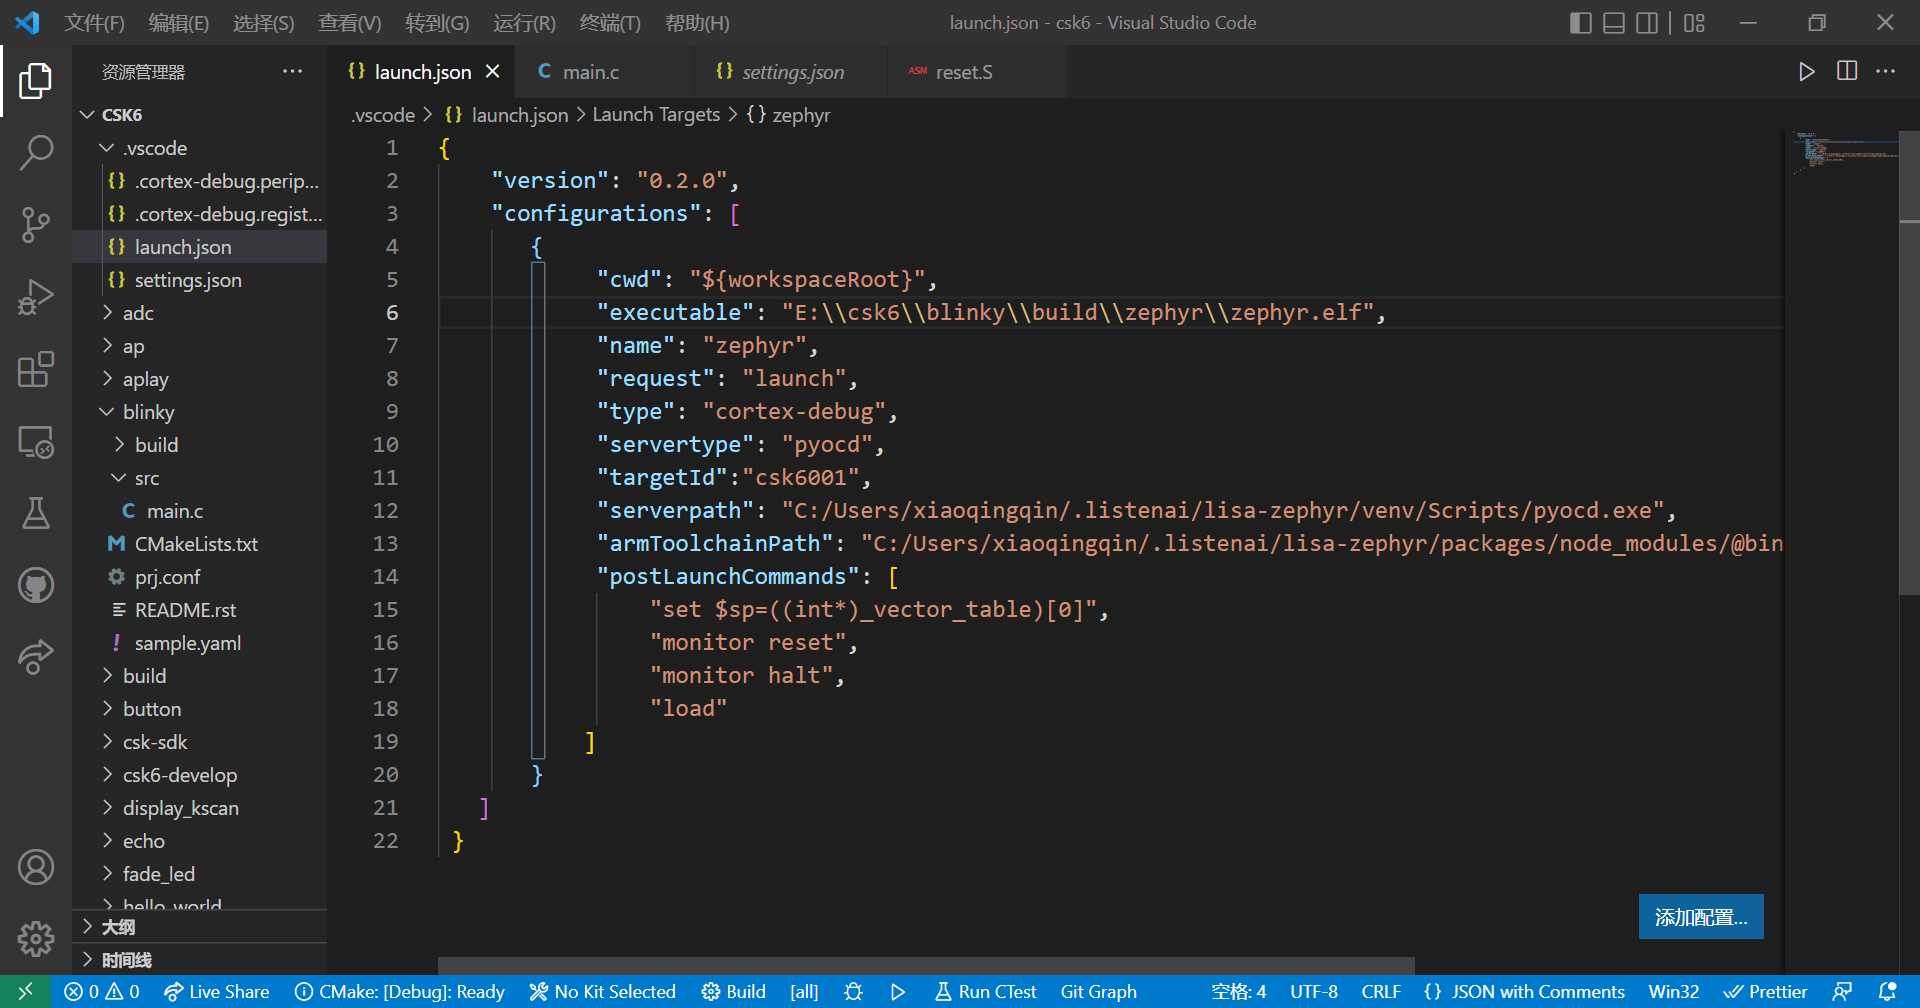
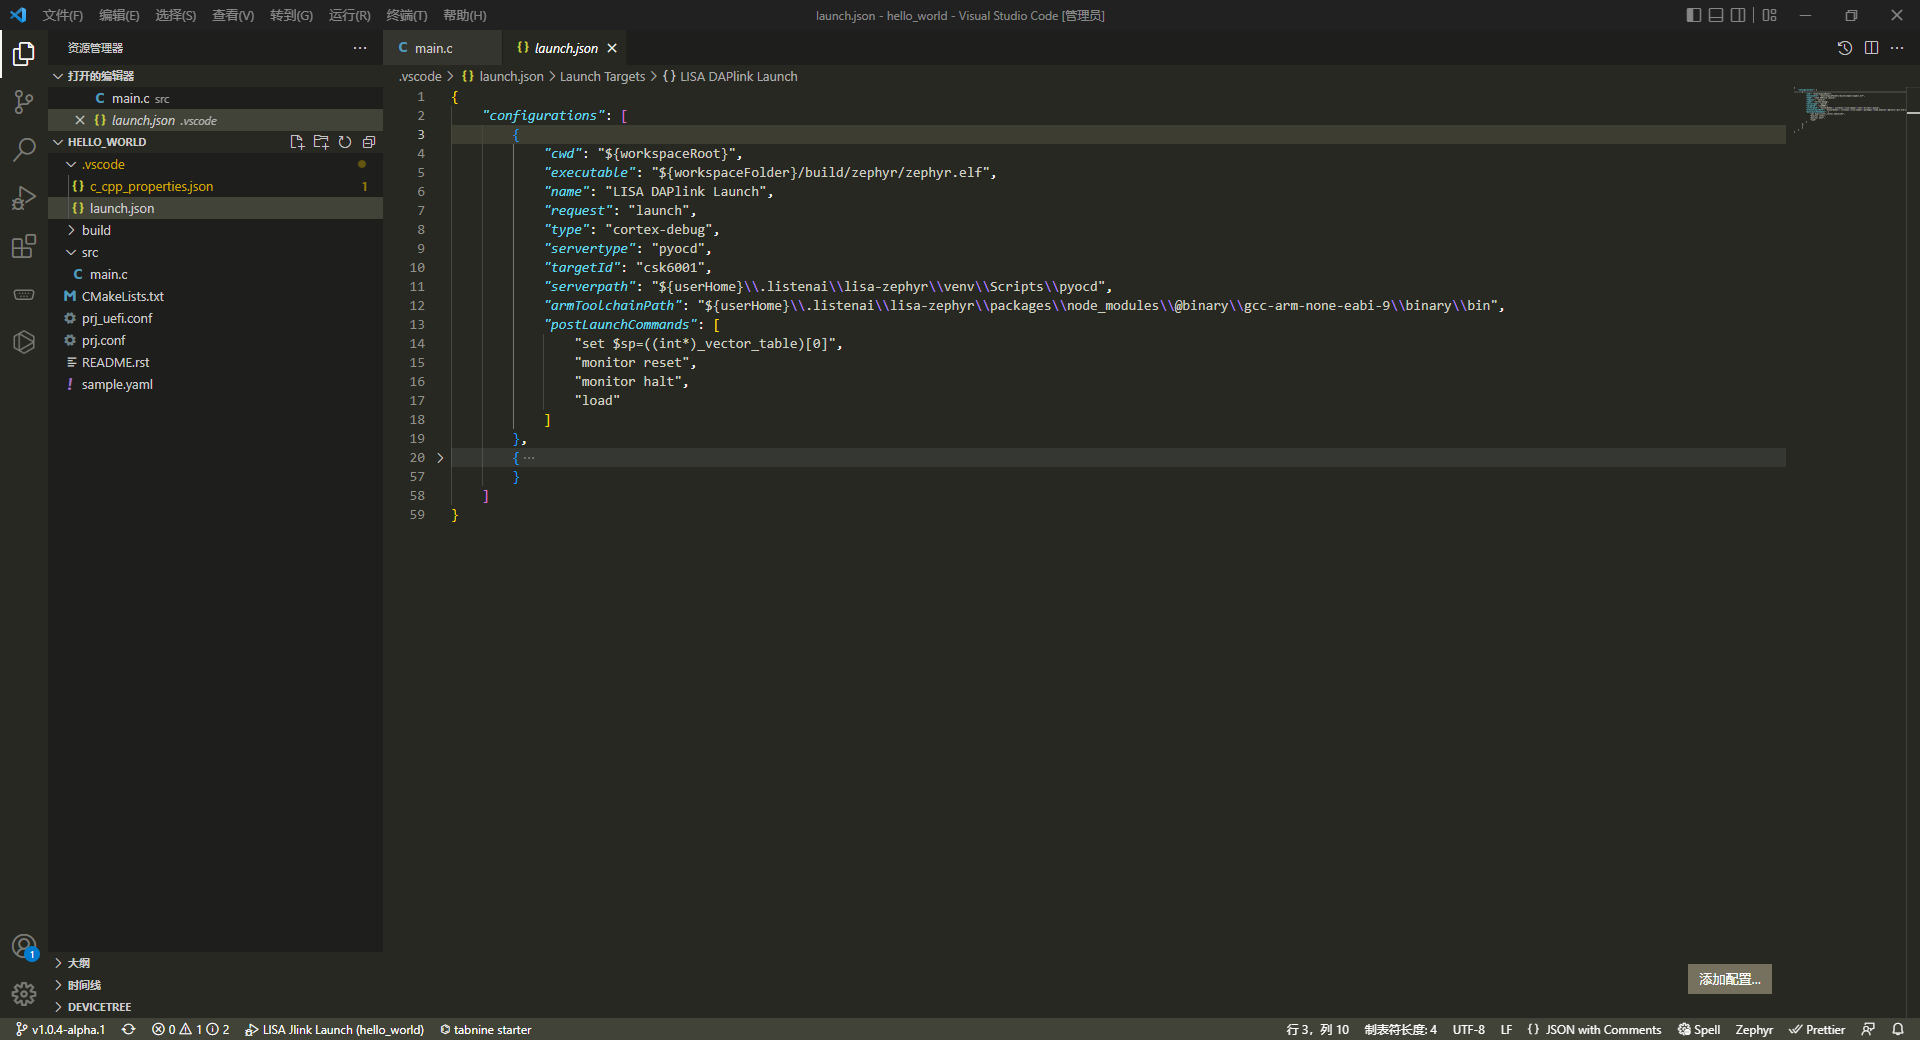
修改调试相关文档；增加vscode开发插件推荐文档

diff --git a/gdbdebug/gdbdebug-jlink.md b/gdbdebug/gdbdebug-jlink.md
@@ -1,9 +1,9 @@
 # 基于 J-Link 的 GDB 调试
 
 ## 概述
-Zephyr 提供了多种 debug 调试方式，支持 GDB 调试，本章节主要介绍如何基于 VS Code 和 J-Link 仿真器实现应用调试。通过本章节学习，开发者可以了解到：
+Zephyr 提供了多种 debug 调试方式，支持 GDB 调试，本章节主要介绍如何基于 VSCode 和 J-Link 仿真器实现应用调试。通过本章节学习，开发者可以了解到：
 - PC 端如何对应用项目进行调试
-- 基于 VS Code 和 J-Link 的调试方法
+- 基于 VSCode 和 J-Link 的调试方法
 
 :::note
 Windows 系统和 Ubuntu 系统下配置的基本一致。
@@ -12,50 +12,47 @@ Windows 系统和 Ubuntu 系统下配置的基本一致。
 ## 准备工作
 - CSK6-NanoKit 开发板。
 - `J-Link` 仿真器，并成功安装驱动，[J-Link驱动下载](https://iflyos-external.oss-cn-shanghai.aliyuncs.com/public/lsopen/zephyr/%E5%B7%A5%E5%85%B7/JLink_Windows_V630d.exe)。
-- PC 端安装 `VS Code`，根据系统类型选择对应的 Windows 或 Linux 版本，[Visual Studio Code 官网下载入口](https://code.visualstudio.com/Download)。
+- PC 端安装 `VSCode`，根据系统类型选择对应的 Windows 或 Linux 版本，[Visual Studio Code 官网下载入口](https://code.visualstudio.com/Download)。
 - `csk6002_9s_nano` 的日志串口 `A03 TX A02 RX` 接串口板连接电脑，在电脑端使用串口调试助手查看日志，波特率为 115200。
 
 将 CSK6-NanoKit 开发板和 J-Link 仿真器 SWD 接口按以下接线图完整连接：
 ![](./files/connect.png)
 
 ## 调试过程
-### VS Code 调试环境搭建
-#### VS Code 安装 `Venus's Cortex-Debug` 调试插件
-在 VS Code 应用商店中搜索 `Venus's Cortex-Debug` 扩展插件，并完成安装，如下图所示：
+### VSCode 调试环境搭建
+#### VSCode 安装 `Venus's Cortex-Debug` 调试插件
+在 VSCode 应用商店中搜索 `Venus's Cortex-Debug` 扩展插件，并完成安装，如下图所示：
 
 ![](./files/venus-debug.png)
 
-#### 创建 `hello_world` 项目并完成 debug 环境配置
+#### 基于已有项目的完成debug 环境配置
 
-**步骤一：** 在 Windows 下新建一个文件夹，如 `csk6-develop`，并将其导入 VS Code。
+**步骤一：** 在已有项目目录下使用 `lisa zep build -b csk6002_9s_nano` 命令完成编译。
 
-**步骤二：** 在 `csk6-develop` 目录下新建 .vscode 目录，将 [launch.json](https://iflyos-external.oss-cn-shanghai.aliyuncs.com/public/lsopen/zephyr/%E5%8A%9F%E8%83%BD%E6%96%87%E4%BB%B6/launch.json) 文件放置到该目录下。
+**步骤二：** 在已有项目目录下使用 `lisa zep ide` 生成debug配置文件lauch.json。
 
-**步骤三：** 在 `csk6-develop` 文件夹下使用 `lisa zep create` 命令创建 `hello_world` 项目，并使用 `lisa zep build -b csk6002_9s_nano` 命令完成编译。
+**步骤三：** 关闭所有已经打开的VSCode窗口，重新打开一个新的VSCode窗口并且导入已有项目目录。可以查看到该目录下已经存在.vscode > lauch.json文件。
 
-**步骤四：** 修改 `luncher.json` 文件 `executable`、`serverpath`、 `armToolchainPath` 三项配置，具体如下：
+#### 创建新项目并完成 debug 环境配置
 
-`executable` 修改为需要 debug 应用项目的 zephyr.elf 文件路径，本示例为`hello_world` 项目的 zephyr.elf 路径：
-```c 
-# 需要 debug 应用的 zephyr.elf 文件路径，本示例为 `hello_world` 项目的 zephyr.elf 路径
- "executable": "E:\\csk6-develop\\hello_world\\build\\zephyr\\zephyr.elf",
-```
+**步骤一：** 选择一个目录用于存放我们即将创建的项目，在该目录下使用 `lisa zep create` 命令创建 `hello_world` 项目，并使用 `lisa zep build -b csk6002_9s_nano` 命令完成编译。
 
-`serverpath` 需要修改为 lisa 安装时带入的 `JLinkGDBServerCL.exe` 可执行文件路径：
-```c 
-"serverpath": "C:/Users/xxxx/.listenai/lisa-zephyr/packages/node_modules/@binary/jlink-venus/binary/JLinkGDBServerCL.exe",
-```
+**步骤二：** 在VSCode中打开刚刚创建的hello_world项目，可以查看到该目录下已经存在.vscode > lauch.json文件。
 
-`armToolchainPath` 修改为 lisa 安装时带入编译链的路径：
-```c 
-# 编译链路径，lisa 安装时带入，需要修改为对应的路径
-"armToolchainPath": "C:/Users/xxxx/.listenai/lisa-zephyr/packages/node_modules/@binary/gcc-arm-none-eabi-9/binary/bin",
-``` 
+#### 配置文件变量说明
+
+`executable`: debug 应用项目的 zephyr.elf 文件路径，本示例为`hello_world` 项目的 zephyr.elf 路径。
+
+
+`serverpath`: lisa 安装时带入的 `JLinkGDBServerCL` 可执行文件路径。
+
+
+`armToolchainPath`: lisa 安装时带入编译链的路径。
 
 ![](./files/venus-debug_config.png)
 
 :::tip
-.vscode 下放置的是各种配置文件，如：task.json 文件、lauch.json 文件等，.vscode 文件夹通常在点击运行->启动调试后由系统生成，本示例直接新增了该目录。
+.vscode 下放置的是各种配置文件，如：task.json 文件、lauch.json 文件等，如遇配置文件不生效的情况，可关闭所有vscode窗口之后重新打开新的窗口重试。
 :::
 
 ### 对 `hello_world` 项目进行 debug 调试
@@ -94,14 +91,15 @@ lisa zep flash --runner jlink
 #### 步骤三：断点调试
 ##### 增加断点
 
-点击 VC Code 运行和调试按钮进入调试模式，在 main 函数的第12行和第17行左侧单击鼠标左键增加两个断点，如下图示：
-![](./files/venus-debug_rundebug.png)
+在 main 函数的第 12 行和第 18 行左侧单击鼠标左键增加两个断点，点击 VSCode 侧边栏的运行和调试按钮进入调试模式并选择LISA Jlink Launch调试任务，如下图示：
+
+![](./files/venus-debug_rundebug_Jlink.png)
 
 
 ##### 开始调试  
 增加断点后点击运行调试按钮 (F5) 开始运行，变量值及监控变量可以在运行调试过程中显示，如下图示：
 
-![](./files/venus-debug_rundebug02.png)
+![](./files/venus-debug_rundebug02_Jlink.png)
 
 从上图可看到，当开始 F5 运行调试后，程序会停在第一个断点，此时 F5 继续执行后程序输出 `Hello world！` 并调到第二个断点等待继续，此后每按一次 F5 继续执行则 while 循环中 count 自增并循环输出日志等待继续执行，同时在侧边栏可以看到 count 在调试过程中值的变化。
 

diff --git a/gdbdebug/gdbdebug-daplink.md b/gdbdebug/gdbdebug-daplink.md
@@ -1,9 +1,9 @@
 # 基于 DAPLink 的 GDB 调试
 
 ## 概述
-Zephyr 提供了多种 debug 调试方式，支持 gdb 调试，本章节主要介绍如何基于 VS Code 和 CSK6-NanoKit 开发板板载调试器芯片 DAPLink 实现应用项目的调试。通过本章节学习，开发者可以了解到：
+Zephyr 提供了多种 debug 调试方式，支持 gdb 调试，本章节主要介绍如何基于 VSCode 和 CSK6-NanoKit 开发板板载调试器芯片 DAPLink 实现应用项目的调试。通过本章节学习，开发者可以了解到：
 - PC端如何对应用项目进行调试
-- 基于 VS Code 和 DAPLink 的调试方法
+- 基于 VSCode 和 DAPLink 的调试方法
 
 :::note
 Windows 系统和 Ubuntu 系统下配置的基本一致。
@@ -11,46 +11,45 @@ Windows 系统和 Ubuntu 系统下配置的基本一致。
 
 ## 准备工作
 - CSK6-NanoKit 开发板，DAPLink 调试 USB 口接 PC 端。
-- PC 端安装 `VS Code`，根据系统类型选择对应的 Windows 或 Linux 版本，[Visual Studio Code 官网下载入口](https://code.visualstudio.com/Download)。
+- PC 端安装 `VSCode`，根据系统类型选择对应的 Windows 或 Linux 版本，[Visual Studio Code 官网下载入口](https://code.visualstudio.com/Download)。
 - `csk6002_9s_nano` 的日志串口接 NanoKit 板子的 `DAPLink` 的 `USB TYPE C` 口即可在电脑端上使用串口调试助手查看日志。如果不是使用 NanoKit 的话，可以通过 `A03 TX A02 RX` 接串口板连接电脑来查看日志，波特率为 115200。
 
 ## 调试过程
-### VS Code 调试环境搭建
-#### VS Code 安装 `Venus's Cortex-Debug` 调试插件
-在 VS Code 应用商店中搜索 `Venus's Cortex-Debug` 扩展插件，并完成安装，如下图所示：
+### VSCode 调试环境搭建
+#### VSCode 安装 `Venus's Cortex-Debug` 调试插件
+在 VSCode 应用商店中搜索 `Venus's Cortex-Debug` 扩展插件，并完成安装，如下图所示：
 
 ![](./files/venus-debug.png)
 
-#### 创建 `hello_world` 项目并完成 debug 环境配置
+#### 基于已有项目的完成debug 环境配置
 
-**步骤一：** 在 Windows 下新建一个文件夹，如 `csk6-develop`，并将其导入 VS Code。
+**步骤一：** 在已有项目目录下使用 `lisa zep build -b csk6002_9s_nano` 命令完成编译。
 
-**步骤二：** 在 `csk6-develop` 目录下新建 .vscode 目录，将 [launch.json](https://iflyos-external.oss-cn-shanghai.aliyuncs.com/public/lsopen/zephyr/%E5%8A%9F%E8%83%BD%E6%96%87%E4%BB%B6/jlink-debug/launch.json) 文件放置到该目录下。
+**步骤二：** 在已有项目目录下使用 `lisa zep ide` 生成debug配置文件lauch.json。
 
-**步骤三：** 在 `csk6-develop` 文件夹下使用 `lisa zep create` 命令创建 `hello_world` 项目，并使用 `lisa zep build -b csk6002_9s_nano` 命令完成编译。
+**步骤三：** 关闭所有已经打开的VSCode窗口，重新打开一个新的VSCode窗口并且导入已有项目目录。可以查看到该目录下已经存在.vscode > lauch.json文件。
 
-**步骤四：** 修改 `luncher.json` 文件 `executable`、`serverpath`、 `armToolchainPath` 三项配置，具体如下：
+#### 创建新项目并完成 debug 环境配置
 
-`executable` 修改为需要 debug 应用项目的 zephyr.elf 文件路径，本示例为`hello_world` 项目的 zephyr.elf 路径：
-```c 
-# 需要 debug 应用的 zephyr.elf 文件路径，本示例为 `hello_world` 项目的 zephyr.elf 路径 
- "executable": "E:\\csk6-develop\\hello_world\\build\\zephyr\\zephyr.elf",
-```
+**步骤一：** 选择一个目录用于存放我们即将创建的项目，在该目录下使用 `lisa zep create` 命令创建 `hello_world` 项目，并使用 `lisa zep build -b csk6002_9s_nano` 命令完成编译。
 
-`serverpath` 修改为 lisa 安装时带入的 pyocd 执行文件路径：
-```c 
-"serverpath": "C:/Users/xiaoqingqin/.listenai/lisa-zephyr/venv/Scripts/pyocd.exe",
-```
+**步骤二：** 在VSCode中打开刚刚创建的hello_world项目，可以查看到该目录下已经存在.vscode > lauch.json文件。
 
-`armToolchainPath` 修改为 lisa 安装时带入编译链的路径：
-```c
-"armToolchainPath": "C:/Users/xxxx/.listenai/lisa-zephyr/packages/node_modules/@binary/gcc-arm-none-eabi-9/binary/bin",
-``` 
+#### 配置文件变量说明
+
+`executable`: debug 应用项目的 zephyr.elf 文件路径，本示例为`hello_world` 项目的 zephyr.elf 路径。
+
+
+`serverpath`: lisa 安装时带入的 pyocd 执行文件路径。
+
+
+`armToolchainPath`: lisa 安装时带入编译链的路径。
+
 
 ![](./files/venus-debug_config_daplink.png)
 
 :::tip
-.vscode 下放置的是各种配置文件，如：task.json 文件、lauch.json 文件等，.vscode 文件夹通常在点击运行->启动调试后由系统生成，本示例直接新增了该目录。
+.vscode 下放置的是各种配置文件，如：task.json 文件、lauch.json 文件等，如遇配置文件不生效的情况，可关闭所有vscode窗口之后重新打开新的窗口重试。
 :::
 
 ### 对 `hello_world` 项目进行 debug 调试
@@ -89,7 +88,7 @@ lisa zep flash --runner pyocd
 #### 步骤三：断点调试
 ##### 增加断点
 
-点击 VC Code 运行和调试按钮进入调试模式，在 main 函数的第 12 行和第 17 行左侧单击鼠标左键增加两个断点，如下图示：
+在 main 函数的第 12 行和第 18 行左侧单击鼠标左键增加两个断点，点击 VSCode 侧边栏的运行和调试按钮进入调试模式并选择LISA DAPlink Launch调试任务，如下图示：
 ![](./files/venus-debug_rundebug.png)
 
 

diff --git a/application/getting_start.md b/application/getting_start.md
@@ -1,6 +1,3 @@
-import Tabs from '@theme/Tabs';
-import TabItem from '@theme/TabItem';
-
 # 快速开始
 
 学习本文后，你将可以：
@@ -12,6 +9,9 @@ import TabItem from '@theme/TabItem';
 ## 操作系统要求
 
 选择你正在使用的操作系统。
+
+import Tabs from '@theme/Tabs';
+import TabItem from '@theme/TabItem';
 
 <div style={{
     border: 'solid 1px #80808080',
@@ -112,8 +112,9 @@ xcode-select --install
     groupId="operating-systems"
     defaultValue="windows"
     values={[
+        {label: 'Ubuntu', value: 'ubuntu'},
         {label: 'Windows', value: 'windows'},
-        {label: 'macOS、Ubuntu', value: 'unix'}
+        {label: 'macOS', value: 'mac'}
     ]}
 >
   <TabItem value="windows">
@@ -123,7 +124,7 @@ xcode-select --install
 > **CSK6一键安装包** 是面向 Windows 操作系统的 CSK6 集成安装包，包含 CSK6 集成开发环境、CSK SDK 等，方便开发者能快速进行 CSK6 的应用开发。
 
   </TabItem>
-  <TabItem value="unix">
+  <TabItem value="mac">
 
 在 **用户权限** 下执行：
 
@@ -152,12 +153,65 @@ wget -qO- https://cdn.iflyos.cn/public/cskTools/lisa-zephyr-install.sh | bash
 > 该命令会在 `~/.listenai` 目录下，安装 CSK6 的集成开发环境以及 CSK SDK 的拉取，执行完毕后开发者能快速进行 CSK6 的应用开发。
 
   </TabItem>
+  <TabItem value="ubuntu">
+
+对于Ubuntu平台的开发者，你可以选用以下方式之一进行搭建：
+
+__1、通过脚本在线安装__
+
+在 **用户权限** 下执行：
+
+<Tabs
+    defaultValue="curl"
+    values={[
+        {label: '使用 curl', value: 'curl'},
+        {label: '使用 wget', value: 'wget'}
+    ]}
+>
+
+<TabItem value="curl">
+
+```bash
+curl -o- https://cdn.iflyos.cn/public/cskTools/lisa-zephyr-install.sh | bash
+```
+</TabItem>
+<TabItem value="wget">
+
+```bash
+wget -qO- https://cdn.iflyos.cn/public/cskTools/lisa-zephyr-install.sh | bash
+```
+</TabItem>
+</Tabs>
+
+> 该命令会在 `~/.listenai` 目录下，安装 CSK6 的集成开发环境以及 CSK SDK 的拉取，执行完毕后开发者能快速进行 CSK6 的应用开发。
+
+__2、通过snap离线安装__
+
+- 下载[Ubuntu 18.04 snap离线包](https://cdn.iflyos.cn/public/lisa-binary/lisa_2.4.2.tgz)：
+
+- 解压后执行：
+
+```bash
+./install.sh
+```
+
+或执行：
+
+```bash
+snap install lisa_2.4.2_amd64.snap
+```
+
+  </TabItem>
 </Tabs>
 </div>
 
 ## 编译 Hello world 示例
 
 选择一个目录用于存放我们即将创建的项目，在这个目录下执行以下命令
+
+:::warning 警告
+  不支持一个带有空格的路径中构建 Zephyr 或创建应用。因此形如 `C:\Users\YourName\app` 的路径可用，但 `C:\Users\Your Name\app` 则不可用。
+:::
 
 ```bash
 lisa zep create

diff --git a/tool/lisa_plugin_zephyr/release_note.md b/tool/lisa_plugin_zephyr/release_note.md
@@ -4,8 +4,8 @@
 
 #### New features:
 
-* `lisa zep sdk` : 新增 sdk 管理命令，交互式对 sdk 进行操作指引。详情查看 [对应章节](sdk_command) 。
-* `lisa zep ide` : 新增 ide 操作指引命令，针对 ide 对应插件的插件配置自动生成。详情查看 [对应章节](sdk_command) 。
+* `lisa zep sdk` : 新增 sdk 管理命令，交互式对 sdk 进行操作指引。详情查看 [对应章节](../lisa_plugin_zephyr/basic#csk-sdk-操作) 。
+* `lisa zep ide` : 新增 ide 操作指引命令，针对 ide 对应插件的插件配置自动生成。详情查看 [对应章节](../lisa_plugin_zephyr/build_flash_debug#csk6) 。
 * `lisa zep fs` : 新增文件系统操作指引命令。
 
 ## v1.6.1 (latest)

diff --git a/tool/lisa_plugin_zephyr/install.md b/tool/lisa_plugin_zephyr/install.md
@@ -1,7 +1,5 @@
 # 安装
 
-## 安装
-
 :::info
 在开始开发环境的搭建之前，请先确保本机已经安装了 **GIT** 工具。
 
@@ -62,6 +60,20 @@ wget -qO- https://cdn.iflyos.cn/public/cskTools/lisa-zephyr-install.sh | bash
 - [基础设置](../lisa_plugin_zephyr/basic.md)
 
 - [命令详解](../lisa_plugin_zephyr/command_detail.md)
+
+## 更新
+
+当你的本机已经存在`lisa zephyr`命令行工具，并想更新到较新的版本来使用新版本带来的特性，可以通过以下命令进行。
+
+```bash
+lisa update zephyr
+```
+
+若你想更新 `lisa` 本身，可执行以下命令进行更新：
+
+```bash
+lisa update
+```
 
 ## 终端命令行补全
 

diff --git a/tool/lisa_plugin_zephyr/build_flash_debug.md b/tool/lisa_plugin_zephyr/build_flash_debug.md
@@ -273,12 +273,9 @@ lisa zep config flash.pyocd.frequency 200000000
 
 ## 调试
 
-### 生成 vscode debug runner 配置
-
 ```bash
-lisa zep init-vs
+lisa zep ide
 ```
 
-在你的 `工程项目` 目录下执行该命令，会基于当前 `env` 编译环境自动生成 vscode debug runner 配置。
-
-当前仅支持 `csk6-dsp` 。
+在你的 `工程项目` 目录下执行该命令，会基于当前 `csk6` 编译环境自动生成 vscode debug 和代码补全的配置。
+![](./images/vscode.png)

diff --git a/tool/lisa_plugin_zephyr/basic.md b/tool/lisa_plugin_zephyr/basic.md
@@ -19,7 +19,7 @@ lisa info zep
 lisa zep sdk
 ```
 
-该命令为 sdk 的管理命令，执行后会根据当前环境，进行 sdk 的管理。
+该命令为 sdk 的管理命令，执行后会根据当前环境，进行 sdk 的拉取安装和版本切换等操作.
 
 ## 创建项目
 通过上述的步骤，你终于完成应用开发的前步骤了，接下来就是创建项目进行开发了，命令如下：

diff --git a/tool/vscode_plugin/code_completion.md b/tool/vscode_plugin/code_completion.md
@@ -1,0 +1,8 @@
+# 代码补全
+
+#### VSCode 安装 `ms-vscode.cpptools`  插件
+在 VSCode 应用商店中搜索 `ms-vscode.cpptools` 扩展插件，并完成安装，如下图所示：
+
+![](./files/cpptools.png)
+
+安装扩展程序后，当您打开或创建*.cpp文件时，您将拥有语法高亮（着色）、智能完成和悬停（智能感知）以及错误检查。

diff --git a/tool/vscode_plugin/debug.md b/tool/vscode_plugin/debug.md
@@ -1,0 +1,8 @@
+# 调试
+
+#### VSCode 安装 `Venus's Cortex-Debug`  插件
+在 VSCode 应用商店中搜索 `Venus's Cortex-Debug` 扩展插件，并完成安装，如下图所示：
+
+![](./files/venus-debug.png)
+
+安装扩展程序后，可支持 [J-Link](../../gdbdebug/gdbdebug-jlink.md)、[daplink](../../gdbdebug/gdbdebug-daplink.md)等调试。
